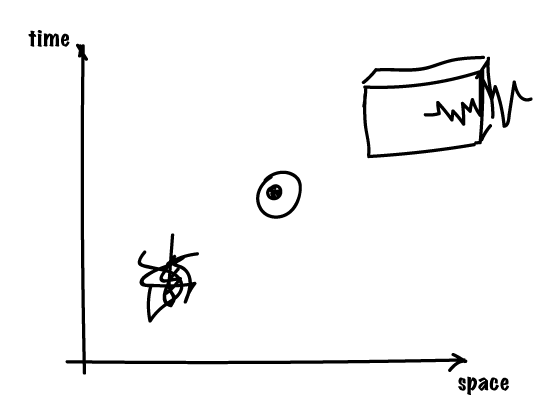
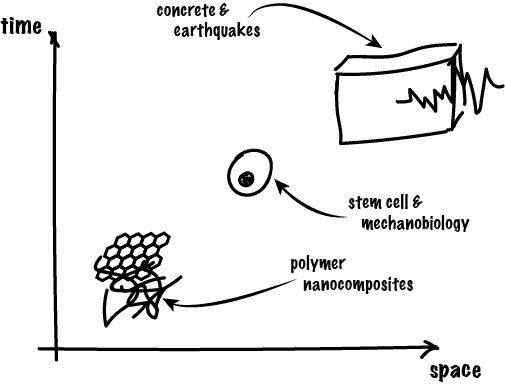
update figures and some text

diff --git a/_includes/social.html b/_includes/social.html
@@ -1,6 +1,5 @@
-<div> Social: </div>
-<div id="social-links">
-  <a title="mvassaux on Github" href="http://github.com/mvassaux/"><i class="fa fa-github-square"></i></a>
+<div> Online stalking available at:
+  <a title="mvassaux on Github" href="http://github.com/mvassaux/"><i class="fa fa-github-square"></i></a>  
   <a title="mvassaux on LinkedIn" href="https://www.linkedin.com/in/maxime-vassaux-86400159/"><i class="fa fa-linkedin-square"></i></a>
   <a title="mvassaux on Google Scholar" href="https://scholar.google.fr/citations?user=YuBmBjIAAAAJ&hl=en"><i class="fa fa-graduation-cap"></i></a>
   <a title="mvassaux on ResearchGate" href="https://www.researchgate.net/profile/Maxime_Vassaux"><i class="fa fa-book"></i></a>

diff --git a/_includes/footer.html b/_includes/footer.html
@@ -5,8 +5,8 @@
     </div>
 
     <div id="bio-text">
-      <p>Somehow a scientist, and as such, a software developer.</p>
-      <p> --</p>
+      <p>Currently doing some bits of computational and material science as a Research Associate at University College London.</p>
+      <!-- <p> --</p> -->
       <div id="bio-social">
         {% include social.html %}
       </div>

diff --git a/_sass/alg/_alg.scss b/_sass/alg/_alg.scss
@@ -246,6 +246,7 @@ footer {
     a {
       color: $accent-color;
       font-size: 1.8em;
+      margin-left: 0.2em;
     }
 
     #social-links {

diff --git a/index.md b/index.md
@@ -4,16 +4,14 @@ title: research interests
 skip_related: true
 ---
 
-Over the few research projects I had, the best couple of words I could use to describe my activities are probably "computational material scientist". I consistently use a computational modelling approach, based on mechanics of materials at different scales, to understand how certain properties or mechanisms emerge. Application of such technique led me to study a wide spectrum of systems, from stability of concrete under seismic loading, to migration of mesenchymal stem cells, and currently, failure of polymers.
+Over the few research projects I had, the best couple of words I could use to describe my activities are probably "computational material scientist". I consistently use a computational modelling approach, based on mechanics of materials at different scales, to understand how certain properties or mechanisms emerge. Application of such technique led me to study a wide spectrum of systems, from stability of concrete under seismic loading, to migration of mesenchymal stem cells, and currently, failure of polymer nanocomposites.
 
-[![space-time-classification](/static/space-time-projects.png){: .center-image }](http://example.net/)
+[![space-time-classification](/static/space-time-projects.png){: .center-image }](./index.html)
 
 <!-- ** figure: systems modelled on a space vs. time graph **
 - clicking on each part of the graph should point to the detailed description of each project
 - the graph should also contain the different softwares I used or developed -->
 
-I should tell you here shortly what I have studied during each of these projects: Hysteresis and scale effects in concrete, topography induced migration of mesenchymal stem cells, hierarchical fracture properties of polymer nanocomposites; and how it led me to the design of my own project.
-
-And of course, here I should tell you what this project is about.
+I should tell now you what this project is about...
 
 <!-- ** should I do a single or multiple page structure? ** -->

diff --git a/projects/stem_cells/index.md b/projects/stem_cells/index.md
@@ -27,11 +27,10 @@ Postulating migration induced by an off-centred position of the nucleus, we have
 
 <iframe src="https://drive.google.com/file/d/0B4RDr7FXP4QHNE9uamZLMXlJbDQ/preview" width="450" height="300"></iframe>
 
-<video width="400" controls>
+<!-- <video width="400" controls>
   <source src="../../static/neymar.m4v" type="video/m4v">
   Your browser does not support HTML5 video.
-</video>
-
+</video> -->
 Being able to determine systematic preferences of MSCs is a first interesting step, but much remain to be explain, wether such behaviour can be explain by purely physical consideration, or wether it is an active cellular mechanism involving signalling pathways. However, establishing the relation between extracellular cues and lower scale molecular mechanisms is probably the most efficient solution to draw further insights on these behaviours.
 
 ## developments
